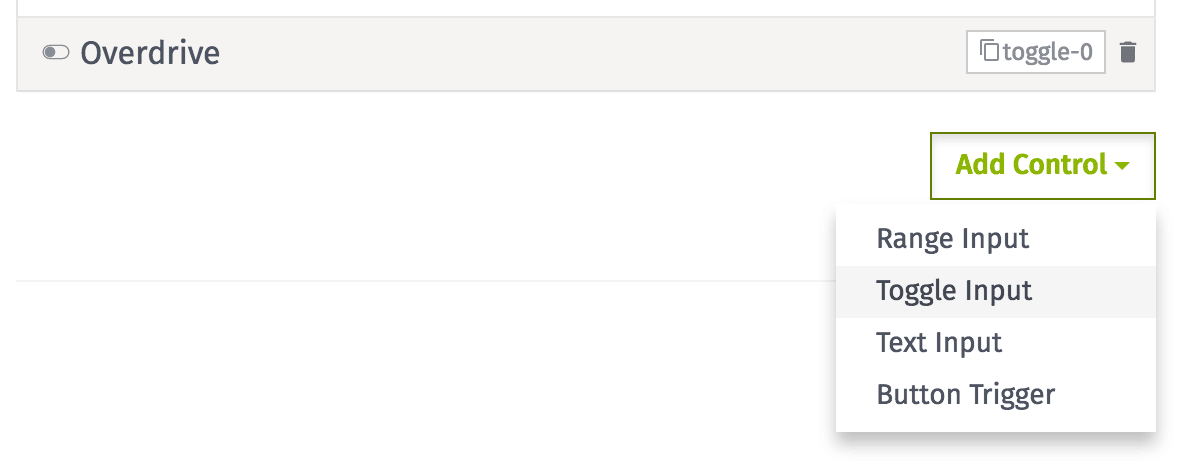
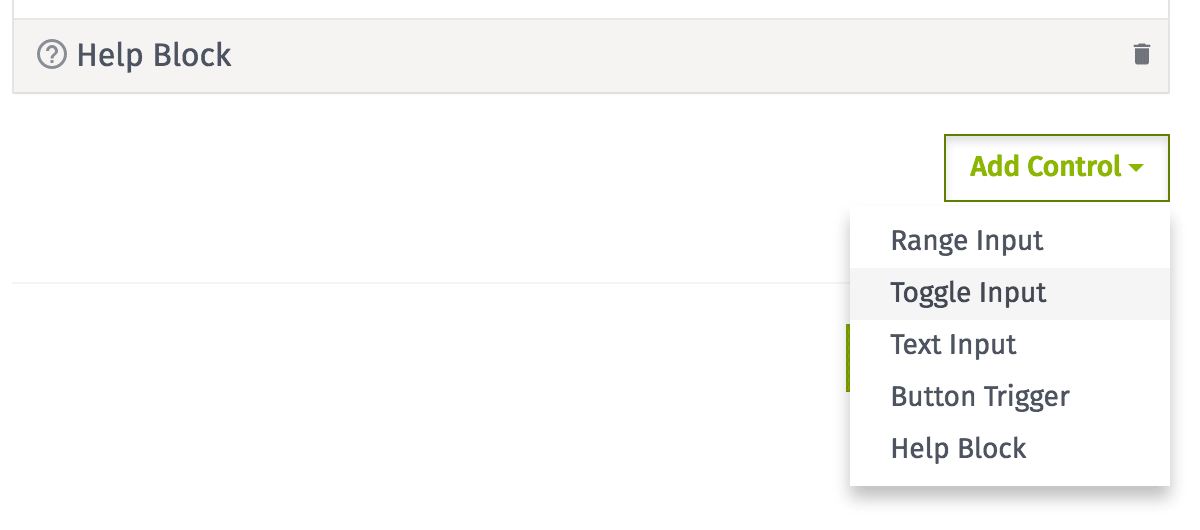
documentation for input controls help block

diff --git a/docs/dashboards/input-controls.md b/docs/dashboards/input-controls.md
@@ -20,7 +20,7 @@ On the edit screen, all controls can be resized and rearranged within the input 
 
 ## Control Configuration
 
-The block supports inputs of four types. Those inputs share a few common attributes:
+The block supports inputs of four types, plus a special ["Help Block" component](#help-block-component). The four inputs share a few common attributes:
 
 *   **Label**: All controls require a label attribute.
 *   **Color**: Controls other than text inputs can optionally be given a custom color.
@@ -73,13 +73,13 @@ Note that it is possible to set number or boolean values in a text input if the 
 
 Device commands and workflow triggers may optionally be sent with a JSON payload, and it is the purpose of the input controls to help you construct the payload quickly and easily from the dashboard.
 
-The payload attached to each button is run through the [Handlebars templating language](http://handlebarsjs.com/), where the values of each input (by Template ID) replaces the tag for the corresponding Template ID within your JSON object.
+The payload attached to each button is run through the <a href="http://handlebarsjs.com/" target="\_blank">Handlebars templating language</a>, where the values of each input (by Template ID) replaces the tag for the corresponding Template ID within your JSON object.
 
 For example, given the following configuration ...
 
 ![Lights Example](/images/dashboards/input-controls-lights-example.png "Lights Example")
 
-On press of the button, "My First Device" will receive a command named "setColor", with the following paylod:
+On press of the button, "My First Device" will receive a command named "setColor", with the following payload:
 
 ```json
 {
@@ -96,3 +96,17 @@ On press of the button, "My First Device" will receive a command named "setColor
 There are a number of different helpers available beyond the standard Handlebars helpers - you can learn more about what the available helpers are and what they do [here](/dashboards/overview/#templating).
 
 **Note:** If you do not define a payload for a Trigger Workflow button, the virtual button's default payload – as set within that button's parent workflow – will be sent when your dashboard button is clicked. If you wish to send a blank payload instead of the default payload, set the payload value to `{}` (opening and closing curly braces with nothing in between).
+
+## Help Block Component
+
+The Help Block is a special component in the Input Controls block that allows text to be displayed to users for the purpose of explaining, in greater detail than can be conveyed in a button label, what exactly will happen when a button is pressed and a workflow / device command is fired off.
+
+![Help Block Input](/images/dashboards/input-controls-help-input.png "Help Block Input")
+
+The component has only one input: a textarea in which arbitrary copy and payload variables can be entered. Like button payloads, the content of the textarea is run through the <a href="http://handlebarsjs.com/" target="\_blank">Handlebars templating language</a>, which allows for input control values (referenced by their Template ID) to be displayed within the block. These values will update as the user changes input values in the other components.
+
+![Help Block Example](/images/dashboards/input-controls-help-example.png "Help Block Example")
+
+The textarea also supports <a href="https://daringfireball.net/projects/markdown/syntax" target="\_blank">Markdown</a>, meaning that links, text formatting and even images can also be displayed within the Help Block.
+
+The Help Block is the only Input Controls component whose height can be adjusted – up to four times a normal component's height.
